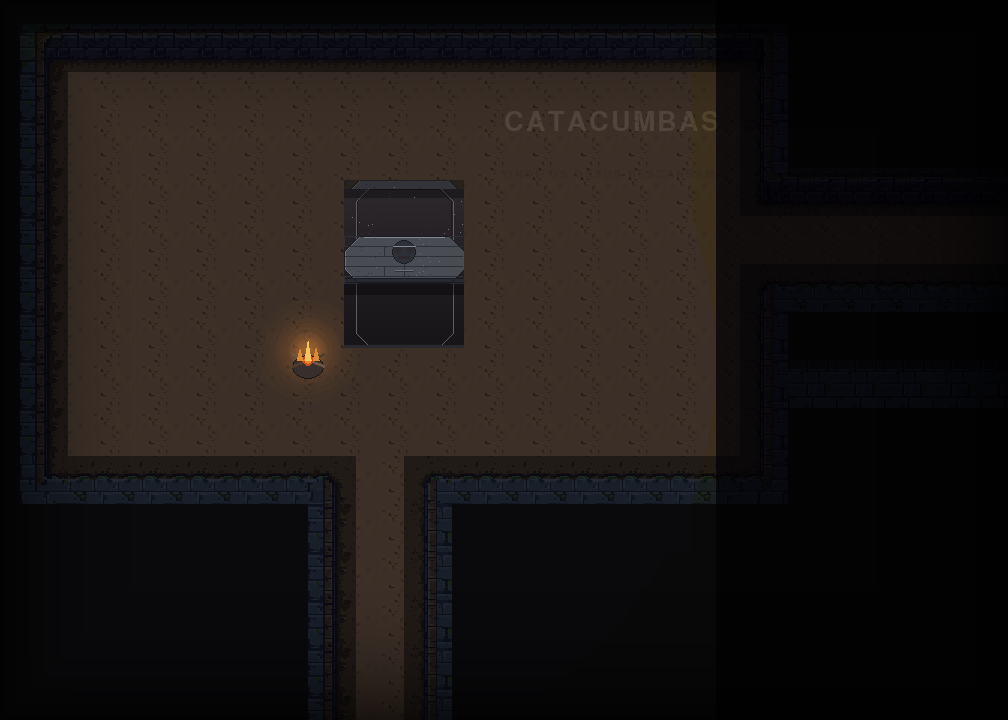
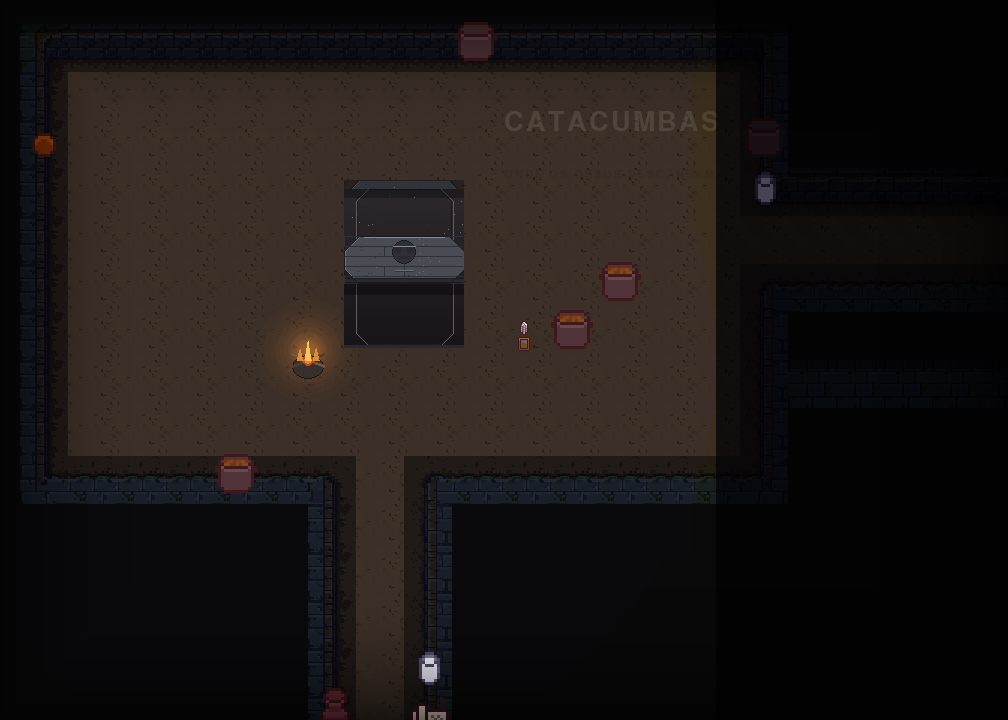
O chao da masmorra tem ossos, barris e potes
A sala era uma laje marrom com luz igual em todo canto. Um lugar
chamado 'Parish of the Undead' nao tem chao liso, e o chao e o que
conta.

src/cenario.py fatia a mesma folha de pequenos itens que a taverna ja
usava para copo e garrafa — e que estava sentada em disco desde a
importacao do pacote — em pecas de cenario: monte de ossos, osso
partido, barril, barril aberto, saco, pote e panela. A distribuicao e
FIXA por semente: o mesmo mapa gera sempre a mesma sala, e um caco nao
muda de lugar entre duas visitas. Nenhum enfeite bloqueia o caminho: o
jogador nao tem para onde recuar numa sala de 16x9, e enfeite que barra
e bug de jogabilidade, nao obstaculo.

Três defeitos apareceram no caminho e todos os tres merecem registro:

- o corte dos enfeites chamava set_mode((1, 1)) para poder carregar
  PNG, e a masmorra chama distribuir() no __init__ — ou seja COM O JOGO
  ABERTO. A janela do jogador era trocada por uma de um pixel. Todas as
  fotos de tela sairam de 1x1 e eu passei duas rodadas achando que o
  jogo estava quebrado;
- cenario era o nome do modulo E o do parametro de __init__, que e o
  objeto Cenario. Dentro do __init__, cenario.distribuir olhava o
  parametro, que e None. Importado com apelido;
- o enfeite saia com 16px num chao de 48px: um pontinho que o jogador
  nao via. Enfeite pequeno demais e o mesmo que enfeite nenhum.

diff --git a/src/cenario.py b/src/cenario.py
@@ -1,0 +1,161 @@
+"""Cacos, barris e sacos espalhados no chao da masmorra.
+
+A sala era uma laje marrom vazia. Nao havia nada no chao: nem um osso,
+nem um barril caindo. Em um lugar called "Parish of the Undead" o
+chao e o que conta, e um chao liso nao conta nada.
+
+Aqui a mesma folha de pequenos itens do pacote de interiores — que a
+taverna ja usava para copo e garrafa — e fatiada de novo em Pecas de
+cenario: osso, osso partido, barril, barril aberto, saco, pote, e o
+monte de ossos. A distribuicao e FIXA por semente: o mesmo mapa gera
+sempre a mesma sala, e um caco nao muda de lugar entre duas visitas.
+
+Nenhuma peca bloqueia o caminho. Sao enfeite, e um enfeite que barra o
+jogador e um bug de jogabilidade, nao um obstaculo.
+"""
+
+from __future__ import annotations
+
+import pathlib
+import random
+import sys
+
+import pygame
+
+RAIZ = pathlib.Path(__file__).resolve().parent.parent
+CELULA = 16
+DESTINO = RAIZ / "assets" / "sprites" / "cenario"
+FONTE = RAIZ / "assets" / "interior" / "fontes" / "TopDownHouse_SmallItems.png"
+
+# nome, coluna, linha. Medidas na folha com a grade de 16 rotulada.
+PECAS = (
+    ("osso_monte", 0, 0, 1, 2),
+    ("osso", 0, 2, 1, 1),
+    ("barril_chao", 4, 4, 1, 1),
+    ("barril_aberto", 6, 4, 1, 1),
+    ("saco", 1, 5, 1, 1),
+    ("pote_roxo", 5, 3, 1, 1),
+    ("pote_branco", 6, 3, 1, 1),
+    ("panela", 1, 2, 1, 1),
+    ("livro", 0, 3, 1, 1),
+)
+
+
+def fatiar(forcar: bool = False) -> dict[str, pygame.Surface]:
+    """Recorta os enfeites para `assets/sprites/cenario`.
+
+    SO roda com o jogo fechado, ou quando os arquivos ja existem e nao
+    ha janela. A regra de ouro: NENHUMA funcao deste modulo chamada em
+    tempo de execucao pode mexer no modo de video. O
+    `set_mode((1, 1))` de antes rodava com o jogo ABERTO — a masmorra
+    chama `distribuir` no `__init__` — e trocava a janela do jogador
+    por uma de um pixel. Todas as fotos de tela sairam de 1x1.
+    """
+    if not pygame.get_init():
+        pygame.init()
+    if pygame.display.get_init() and pygame.display.get_surface() is None:
+        pygame.display.set_mode((1, 1))
+
+    faltando = [p for p in PECAS
+                if forcar or not (DESTINO / f"{p[0]}.png").is_file()]
+    if not faltando:
+        return {}
+
+    DESTINO.mkdir(parents=True, exist_ok=True)
+    folha = pygame.image.load(str(FONTE)).convert_alpha()
+    arte = {}
+    for nome, col, lin, cols, lins in faltando:
+        peca = pygame.Surface((cols * CELULA, lins * CELULA), pygame.SRCALPHA)
+        peca.blit(folha, (0, 0), pygame.Rect(
+            col * CELULA, lin * CELULA, cols * CELULA, lins * CELULA))
+        pygame.image.save(peca, str(DESTINO / f"{nome}.png"))
+        arte[nome] = peca
+    return arte
+
+
+def distribuir(mapa, quantos: int, semente: int) -> list[tuple[int, int, str]]:
+    """Sorteia as pecas em celulas andaveis, longe do caixao.
+
+    Devolve [(x, y, nome)] em COORDENADAS DE CELULA. Nao fatia: os
+    PNG ja estao no repositorio e a cena so precisa do nome.
+    """
+    nomes = [p[0] for p in PECAS]
+    rng = random.Random(semente * 7919 + 13)
+    caixao = tuple(mapa.caixao)
+    saida = tuple(getattr(mapa, "saida", caixao))
+    escolhidos: list[tuple[int, int, str]] = []
+    ocupado: set[tuple[int, int]] = set()
+    tentativas = 0
+    while len(escolhidos) < quantos and tentativas < quantos * 60:
+        tentativas += 1
+        x = rng.randrange(1, max(2, mapa.largura - 1))
+        y = rng.randrange(1, max(2, mapa.altura - 1))
+        if not mapa.andavel(x, y):
+            continue
+        if (x, y) in ocupado:
+            continue
+        # longe do caixao e da saida: o jogador nao acorda em cima de
+        # um barril e a saida nao fica escondida atras de um
+        if abs(x - caixao[0]) + abs(y - caixao[1]) < 4:
+            continue
+        if abs(x - saida[0]) + abs(y - saida[1]) < 3:
+            continue
+        ocupado.add((x, y))
+        escolhidos.append((x, y, rng.choice(nomes)))
+    return escolhidos
+
+
+def desenhar(surface: pygame.Surface, mapa, pecas, tile: int,
+             camera: pygame.Vector2, janela: tuple[int, int]) -> None:
+    """Desenha os enfeites. Sem colisao: sao cacos no chao.
+
+    O enfeite tem a altura de UM TILE. Com metade disso ele saia com 16px
+    num chao de 48px e virava um pontinho que o jogador nao via e nao
+    entendia — enfeite pequeno demais e o mesmo que enfeite nenhum.
+    """
+    _cache: dict[tuple[str, int], pygame.Surface] = {}
+    for x, y, nome in pecas:
+        img = _cache.get((nome, tile))
+        if img is None:
+            original = pygame.image.load(
+                str(DESTINO / f"{nome}.png")
+            ).convert_alpha()
+            # um tile de altura; a largura acompanha a proporcao da arte
+            escala = max(1, tile // max(1, original.get_height()))
+            img = pygame.transform.scale(
+                original,
+                (max(1, original.get_width() * escala),
+                 max(1, original.get_height() * escala)),
+            )
+            _cache[(nome, tile)] = img
+        px = x * tile - camera.x + janela[0] // 2
+        py = y * tile - camera.y + janela[1] // 2
+        surface.blit(img, img.get_rect(midbottom=(px, py + tile // 3)))
+
+
+if __name__ == "__main__":
+    # o preview entra AQUI, e nao no topo: la ele montaria o jogo, que
+    # importa a masmorra, que importa este modulo — e o pacote entraria
+    # pela metade, com `cenario` valendo None dentro da masmorra.
+    sys.path.insert(0, str(RAIZ / "tools"))
+    from preview_real import abrir  # noqa: E402
+
+    janela, ger, config = abrir()
+    from src.estado import Estado  # noqa: E402
+    from src.progresso import Progresso  # noqa: E402
+
+    ger.ui_state.clear()
+    ger.ui_state["progresso"] = Progresso()
+    ger.ui_state["estado"] = Estado(vida=30, ouro=0)
+    ger.switch("dungeon")
+    cena = ger.active
+    cena.on_enter()
+    pecas = distribuir(cena.mapa, 26, 3)
+    print(f"{len(pecas)} enfeites em um mapa de {cena.mapa.largura}x{cena.mapa.altura}")
+    for _ in range(int(7.0 / 60)):
+        ger.update(1 / 60)
+    ger.draw()
+    desenhar(ger.window, cena.mapa, pecas, cena.tile,
+             cena.camera, cena.size)
+    pygame.image.save(ger.window, str(RAIZ / "preview_decoracao.png"))
+    print("preview_decoracao.png")

diff --git a/src/dungeon_scene.py b/src/dungeon_scene.py
@@ -23,6 +23,7 @@ from . import (  # noqa: I001
     theme,
     wang,
 )
+from . import cenario as cenario_mod
 from . import progresso as progresso_mod
 from . import equipamento as equip_mod
 from . import ui_arte
@@ -337,7 +338,12 @@ class DungeonScene(Scene):
         # quadros do esqueleto, carregados uma vez
         self._quadros_esqueleto: list | None = None
         self.passos = 0
-        # o quadro da animacao de morte. A fase "morrendo" roda o
+        # os enfeites de chao. Sao escolhidos uma vez, com semente
+        # fixa: um caco nao muda de lugar entre duas visitas.
+        self.enfeites = cenario_mod.distribuir(
+            self.mapa, quantos=self._quantos_enfeites(),
+            semente=self._semente(),
+        )        # o quadro da animacao de morte. A fase "morrendo" roda o
         # `death` do pacote e so depois chama a abertura.
         self.morte_quadro = 0
         self.andamento = animacao.Passo()
@@ -1066,6 +1072,13 @@ class DungeonScene(Scene):
         surface.fill((12, 11, 10))
         self._limitar_camera()
         self._desenhar_mapa(surface)
+        # os enfeites vem logo apos o chao e antes de qualquer pessoa:
+        # um barril no chao e uma peca de cenario, e nao algo que
+        # atravessa a frente do personagem
+        cenario_mod.desenhar(
+            surface, self.mapa, self.enfeites, self.tile,
+            self.camera, self.size,
+        )
         self._desenhar_saida(surface)
         self._desenhar_item(surface)
         self._desenhar_fogueira(surface)
@@ -1112,6 +1125,31 @@ class DungeonScene(Scene):
             theme.fade_surface(surface, escuro)
         elif self.fase == "acordando" and self.fase_tempo < 0.8:
             theme.fade_surface(surface, int(255 * (1 - self.fase_tempo / 0.8)))
+
+    def _quantos_enfeites(self) -> int:
+        """Quantos enfeites cabem na sala, pela area andavel.
+
+        Um enfeite a cada vinte celulas andaveis. Densidade baixa de
+        proposito: encher a sala de barrel e o mesmo que nao ter
+        nenhum — o olho para de ler o chao.
+        """
+        andaveis = sum(
+            1
+            for y in range(self.mapa.altura)
+            for x in range(self.mapa.largura)
+            if self.mapa.andavel(x, y)
+        )
+        return max(6, min(30, andaveis // 20))
+
+    def _semente(self) -> int:
+        """A semente do mapa, para a decoracao acompanhar o layout."""
+        for nome in ("semente", "seed", "_semente"):
+            valor = getattr(self.mapa, nome, None)
+            if isinstance(valor, int):
+                return valor
+        # sem semente no mapa: o mesmo valor de sempre, e a decoracao
+        # fica igual entre visitas
+        return 12345
 
     def _aplicar_luz(self, surface: pygame.Surface) -> None:
         """Escurece a cena e abre a luz no heroi, na fogueira e nas tochas.
